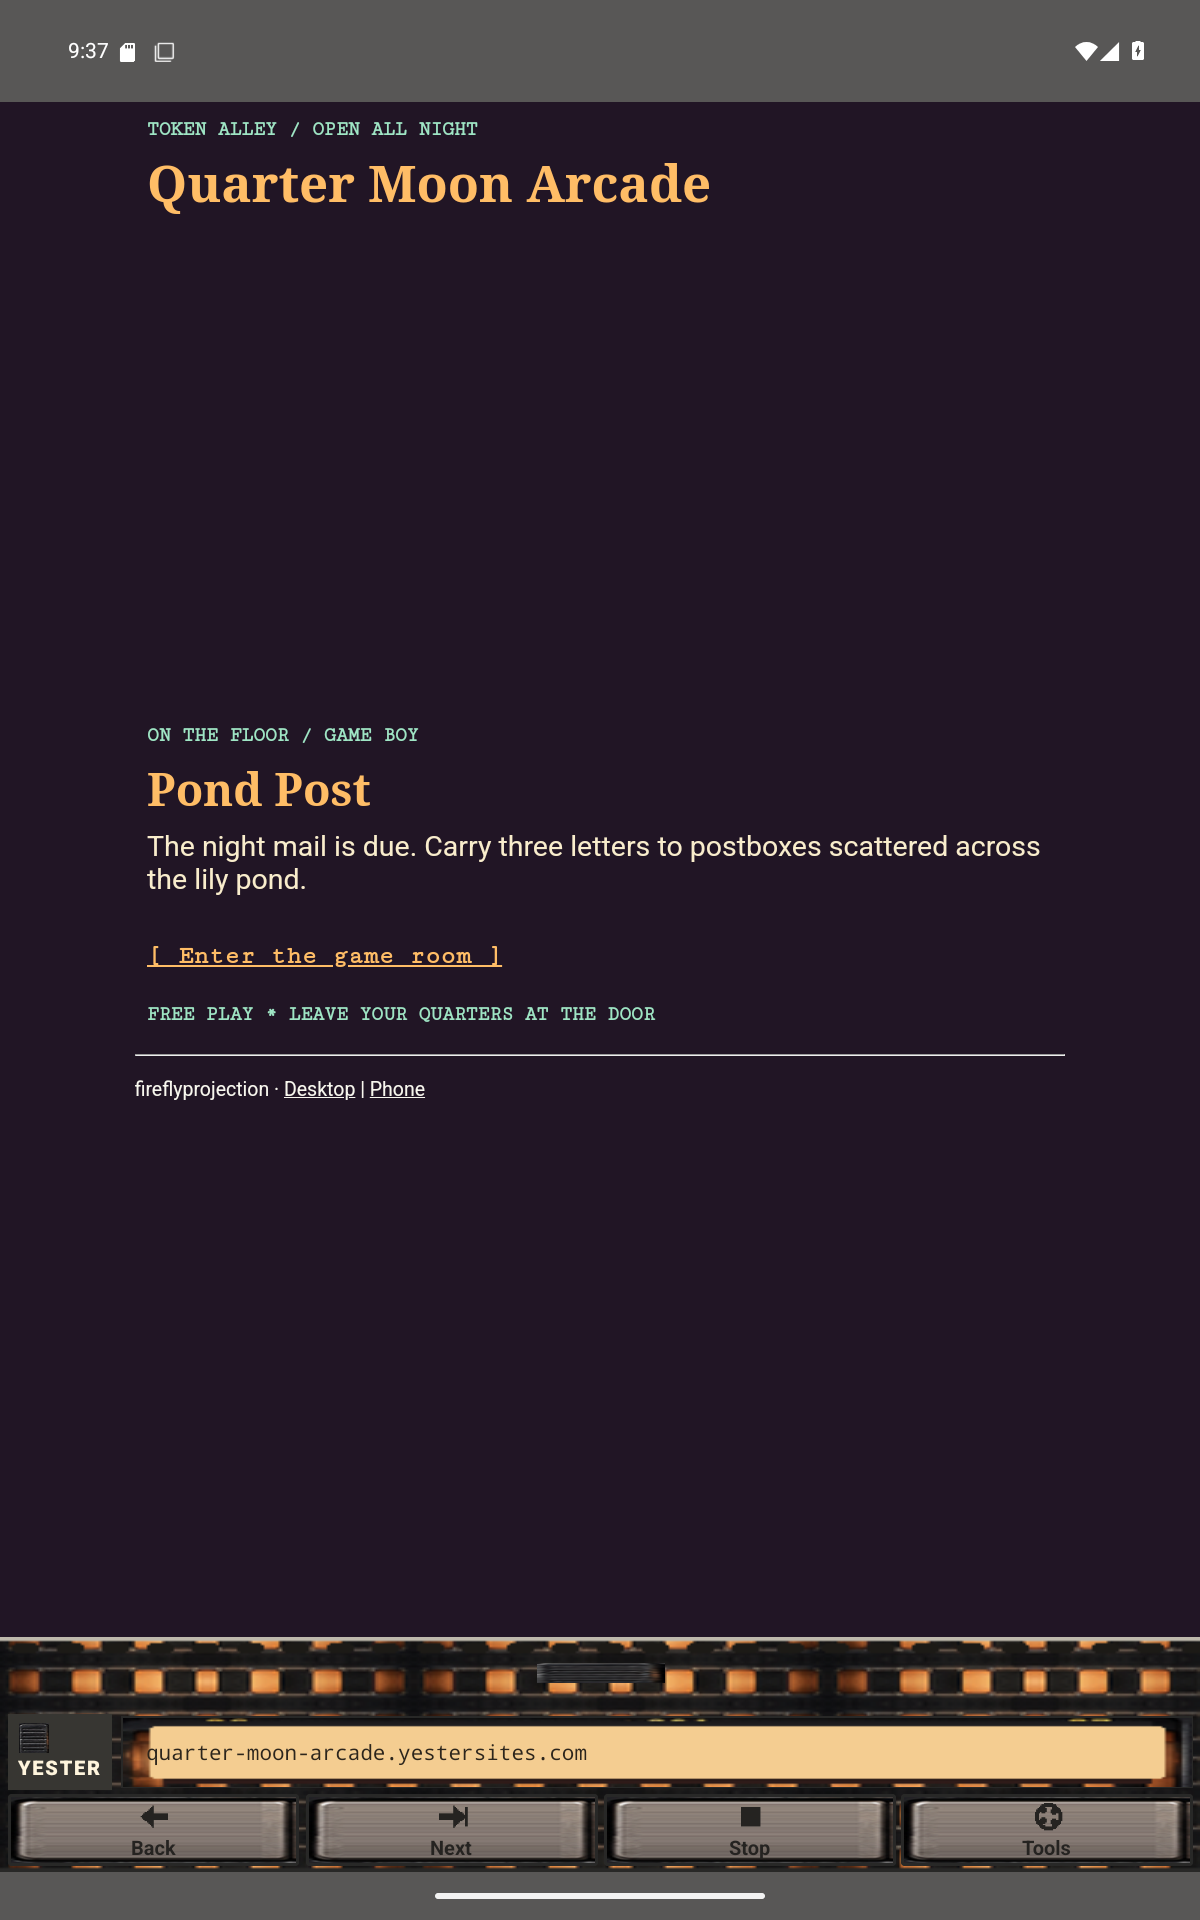
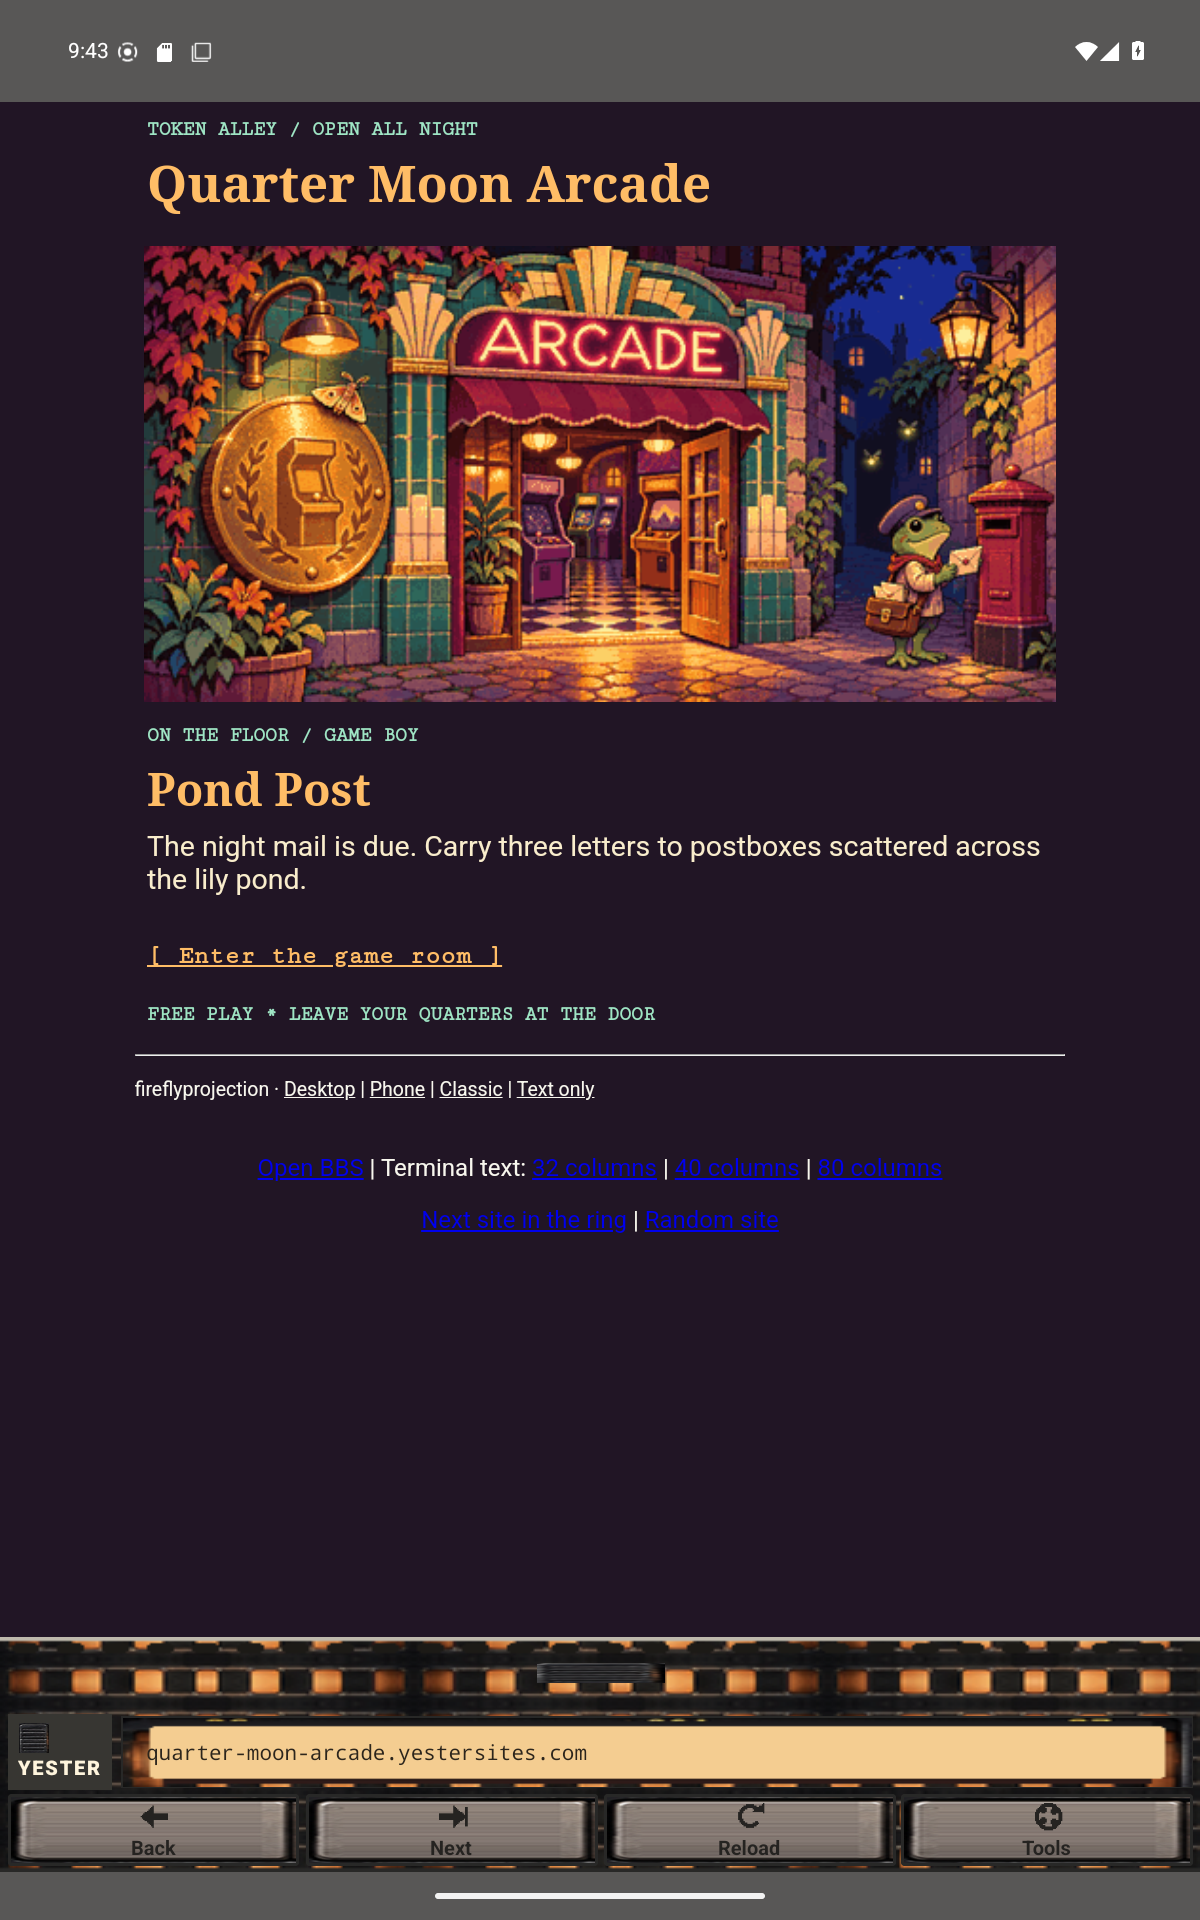
Handle browser shortcuts at window level and publish Android device review

diff --git a/work/yester-mobile/modules/yester-controls/android/src/main/java/world/roddy/controls/YesterControlsModule.kt b/work/yester-mobile/modules/yester-controls/android/src/main/java/world/roddy/controls/YesterControlsModule.kt
@@ -1,40 +1,83 @@
 package world.roddy.controls
 
+import android.os.Handler
+import android.os.Looper
 import android.view.KeyEvent
 import android.view.View
 import android.view.ViewGroup
+import android.view.Window
 import android.webkit.WebView
 import androidx.webkit.WebViewCompat
 import androidx.webkit.WebViewFeature
+import expo.modules.kotlin.functions.Queues
 import expo.modules.kotlin.modules.Module
 import expo.modules.kotlin.modules.ModuleDefinition
-import expo.modules.kotlin.functions.Queues
+import java.lang.ref.WeakReference
+
+private class BrowserKeys(
+  val previous: Window.Callback,
+  module: YesterControlsModule
+) : Window.Callback by previous {
+  private val owner = WeakReference(module)
+
+  private fun route(event: KeyEvent): Boolean {
+    if (!event.isAltPressed || event.isCtrlPressed || event.isMetaPressed) return false
+    val action = when (event.keyCode) {
+      KeyEvent.KEYCODE_L -> "address"
+      KeyEvent.KEYCODE_DPAD_LEFT -> "back"
+      KeyEvent.KEYCODE_DPAD_RIGHT -> "forward"
+      else -> return false
+    }
+    val controls = owner.get() ?: return false
+    if (event.action == KeyEvent.ACTION_DOWN && event.repeatCount == 0) {
+      controls.sendEvent("shortcut", mapOf("action" to action))
+    }
+    return true
+  }
+
+  override fun dispatchKeyEvent(event: KeyEvent) =
+    route(event) || previous.dispatchKeyEvent(event)
+
+  override fun dispatchKeyShortcutEvent(event: KeyEvent) =
+    route(event) || previous.dispatchKeyShortcutEvent(event)
+}
 
 class YesterControlsModule : Module() {
+  private var window: WeakReference<Window>? = null
+  private var keys: BrowserKeys? = null
+
   private fun browser(root: View?): WebView? {
     if (root is WebView) return root
-    if (root is ViewGroup) for (i in 0 until root.childCount) browser(root.getChildAt(i))?.let { return it }
+    if (root is ViewGroup) for (i in 0 until root.childCount) {
+      browser(root.getChildAt(i))?.let { return it }
+    }
     return null
+  }
+
+  private fun detach() {
+    val k = keys
+    window?.get()?.let { if (k != null && it.callback === k) it.callback = k.previous }
+    window = null
+    keys = null
+  }
+
+  private fun bind(target: Window) {
+    if (window?.get() === target && keys != null) return
+    detach()
+    val callback = target.callback ?: return
+    keys = BrowserKeys(callback, this).also { target.callback = it }
+    window = WeakReference(target)
   }
 
   override fun definition() = ModuleDefinition {
     Name("YesterControls")
     Events("shortcut")
+    OnDestroy { Handler(Looper.getMainLooper()).post { detach() } }
     AsyncFunction("configure") { muted: Boolean, tap: Boolean ->
-      val web = browser(appContext.currentActivity?.window?.decorView) ?: return@AsyncFunction false
+      val target = appContext.currentActivity?.window ?: return@AsyncFunction false
+      bind(target)
+      val web = browser(target.decorView) ?: return@AsyncFunction false
       web.settings.mediaPlaybackRequiresUserGesture = tap
-      web.setOnKeyListener { _, code, event ->
-        val action = when (code) {
-          KeyEvent.KEYCODE_L -> "address"
-          KeyEvent.KEYCODE_DPAD_LEFT -> "back"
-          KeyEvent.KEYCODE_DPAD_RIGHT -> "forward"
-          else -> null
-        }
-        if (!event.isAltPressed || action == null) false else {
-          if (event.action == KeyEvent.ACTION_DOWN && event.repeatCount == 0) sendEvent("shortcut", mapOf("action" to action))
-          true
-        }
-      }
       if (!WebViewFeature.isFeatureSupported(WebViewFeature.MUTE_AUDIO)) return@AsyncFunction false
       WebViewCompat.setAudioMuted(web, muted)
       WebViewCompat.isAudioMuted(web) == muted

diff --git a/work/yester-mobile/modules/yester-controls/ios/YesterControlsModule.swift b/work/yester-mobile/modules/yester-controls/ios/YesterControlsModule.swift
@@ -1,23 +1,67 @@
 import ExpoModulesCore
+import UIKit
 import WebKit
 
+private let shortcutNotification = Notification.Name("world.roddy.yester.shortcut")
+
+private extension UIViewController {
+  @objc func yesterBrowserShortcut(_ sender: UIKeyCommand) {
+    NotificationCenter.default.post(name: shortcutNotification, object: sender)
+  }
+}
+
 public class YesterControlsModule: Module {
-  private func browser(_ root: UIView?) -> WKWebView? {
+  @MainActor private weak var host: UIViewController?
+  @MainActor private var commands: [UIKeyCommand] = []
+  @MainActor private var observer: NSObjectProtocol?
+
+  @MainActor private func browser(_ root: UIView?) -> WKWebView? {
     if let web = root as? WKWebView { return web }
     for child in root?.subviews ?? [] {
       if let web = browser(child) { return web }
     }
     return nil
   }
+
+  @MainActor private func detachKeys() {
+    for command in commands { host?.removeKeyCommand(command) }
+    if let observer { NotificationCenter.default.removeObserver(observer) }
+    commands = []
+    observer = nil
+    host = nil
+  }
+
+  @MainActor private func bindKeys(to controller: UIViewController) {
+    guard host !== controller else { return }
+    detachKeys()
+    host = controller
+    let actions = ["l": "address", UIKeyCommand.inputLeftArrow: "back", UIKeyCommand.inputRightArrow: "forward"]
+    for input in actions.keys {
+      let command = UIKeyCommand(input: input, modifierFlags: .alternate, action: #selector(UIViewController.yesterBrowserShortcut(_:)))
+      command.wantsPriorityOverSystemBehavior = true
+      controller.addKeyCommand(command)
+      commands.append(command)
+    }
+    observer = NotificationCenter.default.addObserver(forName: shortcutNotification, object: nil, queue: .main) { [weak self] event in
+      guard let key = event.object as? UIKeyCommand, let input = key.input, let action = actions[input] else { return }
+      self?.sendEvent("shortcut", ["action": action])
+    }
+  }
+
   public func definition() -> ModuleDefinition {
     Name("YesterControls")
     Events("shortcut")
-    AsyncFunction("configure") { (silent: Bool, tap: Bool, promise: Promise) in
-      guard let web = self.browser(self.appContext?.utilities?.currentViewController()?.view) else {
-        promise.resolve(false)
-        return
+    OnDestroy { Task { @MainActor in self.detachKeys() } }
+    AsyncFunction("configure") { (silent: Bool, _: Bool, promise: Promise) in
+      Task { @MainActor in
+        guard let controller = self.appContext?.utilities?.currentViewController(),
+              let web = self.browser(controller.view) else {
+          promise.resolve(false)
+          return
+        }
+        self.bindKeys(to: controller)
+        web.setAllMediaPlaybackSuspended(silent) { promise.resolve(true) }
       }
-      web.setAllMediaPlaybackSuspended(silent) { promise.resolve(true) }
-    }.runOnQueue(.main)
+    }
   }
 }

diff --git a/outputs/yester-mobile/review/review.md b/outputs/yester-mobile/review/review.md
@@ -1,0 +1,45 @@
+# YESTER 0.2 Android device review
+
+The device is an Android 15 emulator running Android System WebView 124.0.6367.219. Phone captures use a 720 × 1440 viewport at 280 dpi. The test uses an isolated, signed-out Android user and the ordinary release APK. All member pages load over the network from their public HTTPS subdomains.
+
+[Fourteen frames on Quarter Moon Arcade](frame-cabinet.jpg) · [Web browser parity checklist](web-parity.md) · [Per-case observations](device-results.jsonl)
+
+Each full-size picture in the frames, phone and tablet directories is an Android screenshot. The contact sheet crops the bottom of each screenshot and adds its frame name.
+
+## Scope
+
+The emulator can verify WebView browsing, physical-key events, rotation, native sharing and Android audio player lifecycle. A physical phone, Bluetooth gamepad, iPhone Simulator and iOS device were unavailable for this session. Hardware latency, actual handset speaker output and iOS behavior require separate device checks.
+
+## Verified behavior
+
+| Android case | Observed result |
+| --- | --- |
+| Theme cabinet | Applied all 14 frames, one after the other, on the same live Quarter Moon Arcade homepage. Each full-size capture shows the actual artwork and controls. |
+| Pond Post | Entered the game room through the homepage link and started the cartridge. Fullscreen stayed inside the YESTER activity. Rotating yielded a 1440 × 720 game, and exiting returned to the same game-room address. |
+| Outside navigation | Entered example.org from the game room. Android Back restored the interior URL. Forward reopened the outside site. At the end of history it became Next. A grip swipe then discovered a listed member page. |
+| Bookmarks and native sharing | Saved a room address containing a query and fragment. Tools showed Saved. Android Sharesheet displayed the complete URL. Reopening the bookmark after clearing the travel log preserved both the query and fragment. |
+| Privacy and startup | Disabled travel logging. The cleared log was empty, bookmarks remained available, and the recording preference remained disabled after restart. A settled visit reopened at the exact room URL with quiet startup and the Contact Sheet frame retained. |
+| Creator tools | Opened the live Retro Page editor from Settings. The Browse key returned to the saved game-room URL. |
+| Release regressions | The first build forcibly reopened the grip when idle hiding was disabled. Selecting Resume on an already open page could lose that page on an immediate force-stop. Both regression tests passed in 0.2.1. |
+
[1 lines of base64/hex data omitted]
+
+[DeskSet and Cable Guide across four live member homepages](member-sites.jpg) · [Tablet Settings](tablet/settings.png) · [Folded grip](phone/folded.png) · [Tools](phone/tools.png) · [Fullscreen game in landscape](phone/game-landscape.png) · [Native share sheet](phone/share.png)
+
+The four site comparisons use 0.2.1. At 1200 × 1920 and 240 dpi, the tablet displayed the settings sections alongside the active navigation panel. At phone width those sections drill down.
+
+The active audio check used a loopback page playing a continuous 660 Hz Web Audio tone. Android reported the same active AAudio player before and after changing frame. Mute changed to Unmute, and swiping to a live site disposed the original audio player. This measures the app's playback lifecycle separately from physical speaker output.
+
+## Final Android build
+
[1 lines of base64/hex data omitted]
+
+- An unavailable domain displayed the themed recovery panel. **Discover another site** opened a live member site. In a second test, an endpoint was brought back online after the error. **Try again** recovered the full original URL, including its query and fragment. [Connection error](phone/connection-error.png)
+- A nonsensical Grub search displayed its no-match message. A long game-room URL retained its entire query and fragment in the address editor. The Contact Sheet library displayed a deliberate fallback for an outside page without artwork. [Empty search](phone/empty-search.png) · [Long address](phone/long-address.png) · [Artwork fallback](phone/library-fallback.png)
+- Phone cabinet specimens and the tablet’s two-pane settings were captured again after the final upgrade. [Phone cabinet](phone/cabinet.png) · [Tablet homepage](tablet/arcade.png) · [Tablet Settings](tablet/settings.png)
+- The same device independently measured YESTER’s internal digital sound from the 0.2.1 build. Android Screen Recorder was restricted to YESTER and device audio. PCM amplitude fell from 6,748 RMS to 0.29 on mute, rose to 5,227 after unmute, and stayed at 0.29 for 18 seconds after discovery. [Audio measurement](audio-measurement.json) · [Sound](phone/sound-active.png) · [Muted](phone/sound-muted.png)
+- The Stop button appeared during a deliberately slow response, and tapping it restored Reload. The high-contrast preference visibly changed the dock. [Dock states](dock-closeups.jpg) · [High contrast](phone/contrast.png)
+
+## Remaining checks
+
+Alt+L did not open the address field in the emulator using either injected Android key chords or the virtual hardware key combination. Tapping the address field worked. A physical keyboard test and investigation of Android key focus remain. No physical Android handset, iPhone, gamepad, screen-reader session or on-device iOS build was tested. The guestbook, publishing and account service belong to Retro Page and were not modified or release-tested in this browser pass.

diff --git a/README.md b/README.md
@@ -1,6 +1,6 @@
 # YESTER by RODDY
 
-**[Download YESTER 0.2.2 for Android (.apk)](https://github.com/lionsarmor/yester/releases/download/v0.2.2/YESTER-0.2.2.apk)**
+**[Download YESTER 0.2.3 for Android (.apk)](https://github.com/lionsarmor/yester/releases/download/v0.2.3/YESTER-0.2.3.apk)**
 
 Open this page on your Android phone or tablet, download the APK, and tap it in Files to install. The signed preview runs on Android 7 and later and includes 32-bit and 64-bit builds for ARM and Intel. Open Quarter Moon Arcade, enter its game room, then swipe up from the bottom grip to discover another handmade site.
 
@@ -25,6 +25,6 @@ git clone --recurse-submodules https://github.com/lionsarmor/yester.git
 
 ## Testing
 
-- **Android emulator on Linux.** With an Android virtual device named `YESTER_Pixel`, run `work/yester-mobile/scripts/launch-apk.sh /path/to/YESTER-0.2.2.apk`. The launcher installs the downloaded release and opens it on that device.
+- **Android emulator on Linux.** With an Android virtual device named `YESTER_Pixel`, run `work/yester-mobile/scripts/launch-apk.sh /path/to/YESTER-0.2.3.apk`. The launcher installs the downloaded release and opens it on that device.
 - **Mobile development.** In `work/yester-mobile`, run `npm ci`, `npm test` and `npm run typecheck`. See the [mobile README](work/yester-mobile/README.md) for Expo and iPhone simulator instructions.
 - **Member service.** Run `python3 work/yestersites-edition/scripts/build.py` to assemble the Worker. Its database binding is `DB`. Supply your own deployment settings and credentials. Optional build-time variables `FOUNDER_EMAIL_SHA256` and `FOUNDER_ACTIVATION_SHA256` enable the founder claim flow for your installation.
